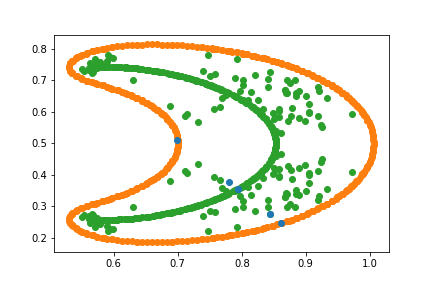
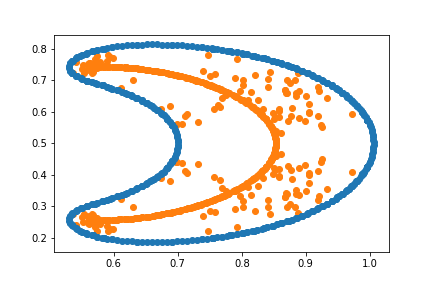
Work on making animated figure

Changed region(s): [[0.1505, 0.125, 0.8727, 0.875]]

diff --git a/Skeletize.py b/Skeletize.py
@@ -4,13 +4,20 @@ Created on Thu Feb 17 16:22:45 2022
 
 @author: Graham Garcia
 """
-import numpy as np
-from DataStructures import normalize2D, normalize3D, kdTree, getDistance2D, getDistance3D
+
 from random  import randint
+from sys import float_repr_style
 import matplotlib
 import matplotlib.pyplot as plt
+from matplotlib.animation import FuncAnimation
+from mpl_toolkits import mplot3d
+import numpy as np
+import csv
 import scipy
 import pandas as pd
+
+
+from DataStructures import normalize2D, normalize3D, kdTree, getDistance2D, getDistance3D
 
 def checkRepeat(check : list):
     n = 2 #order of repeat
@@ -88,7 +95,7 @@ def thin2D(opts : list, measured : list, finPts : list, finR : list, pointDis):
     return thin1p,thin1r
     
     
-def Skeletize2D(points : list, norms : list):
+def Skeletize2D(points : list, norms : list,start : int, stop : int):
     #skeletize takes in 
     #points, the given plain list of points [x,y] for 2D case
     #norms, a list of not yet normalized normal points [n_x,n_y] here for 2D case
@@ -96,8 +103,7 @@ def Skeletize2D(points : list, norms : list):
     #then returns 2 things
     # finPoints = [[x,y],...] of skeleton points
     # finR = [r1,r2,...] of the radius of each skeleton point
-    
-    level = 96
+
     
     pts = []
     i = 0
@@ -113,10 +119,16 @@ def Skeletize2D(points : list, norms : list):
     threshDistance = getDistance2D(points[0],close)
     
     #TOLLERANCES
-    cweight = 0.5#weight of c value(exponetialy weighted)
-    maxReach = 11 #max ittrations of the reach algorithm
-    pointtol = 0.2 #in %
-    closew = 100 #Another modifier for tollerance on skeleton filter
+    
+    #Stored as lists within lists, each list is a points individual searches
+    acp = []#CenterPoints saved when making an animation
+    atp = []#TreePoints saved when making an animation
+    ar = []#Radius saved when making animation
+   
+    ap = []#MainPoints saved when making animation
+    an = []#Normals saved when making animation
+    
+    
     
     thinPoints = []
     finPoints = []#list of skeletized points
@@ -124,6 +136,15 @@ def Skeletize2D(points : list, norms : list):
     index = 1
     guessr = 0
     for point in points:
+        
+        tacp = []
+        tatp = []
+        tar = []
+        
+        
+        if index - 1 >= start and index - 1 <= stop:
+            ap.append(point)
+            an.append(norms[index-1])
         
         tempr = []
         if index == 1:
@@ -145,57 +166,29 @@ def Skeletize2D(points : list, norms : list):
             tempr.append(np.round(getRadius2D(point, testp, norms[index - 1]),6))
             leng = len(tempr)-1
             
-            if tempr[leng] < 2 * threshDistance:
-                case = True
+            #INFORMATION CAPTURE FOR ANIMATION
+            if index - 1 >= start and index - 1 <= stop:
+                tacp.append(centerp[len(centerp) - 1])
+                tatp.append(testp)
+                tar.append(tempr[len(tempr) - 1])
+            
+            #for if within the threshold distance of the interface(too close to surface to be reasonable)
+            # if tempr[leng] < 2 * threshDistance:
+            #     case = True
             
             #cases for cacthing when stuck  
             if tempr[leng] == tempr[leng - 1] and i > 1:
                 
-                reach = True
-                reachitt = 1
-                while reach:
-                    c = np.power(10, reachitt) * threshDistance * np.power(cweight,reachitt)
-                    if(reachitt > maxReach or c <= 0):
-                        reach = False
-                    cords = [point[0]-norms[index-1][0]*c,point[1]-norms[index-1][1]*c]
-                    checkp = tree.getNearR(cords,[cords[0]*10000,cords[1]*9000])
-                    
-                  
-                    if not(checkp == point):
-                        A = [point[0] - cords[0],point[1] - cords[1]]
-                        B = [point[0] - checkp[0],point[1] - checkp[1]]
-                        theta = np.arccos((A[0] * B[0] + A[1] * B[1]) / (np.sqrt(np.power(np.abs(A[0]),2) + np.power(np.abs(A[1]),2)) * np.sqrt(np.power(np.abs(B[0]),2) + np.power(np.abs(B[1]),2))))
-                        if(theta < 0.2):
-                            
-                            midp = [(point[0] + checkp[0])/2,(point[1] + checkp[1])/2]
-                            if(np.abs(midp[0] - centerp[len(centerp) - 1][0]) < closew * pointtol * threshDistance and np.abs(midp[1] - centerp[len(centerp) - 1][1]) < closew * pointtol * threshDistance):
-                                if(index == level):
-                                    print(centerp)
-                                    print(tempr)
-                                    q = 1
-                                    ptx = []
-                                    pty = []
-                                    while q < len(centerp):
-                                        ptx.append(centerp[q][0])
-                                        pty.append(centerp[q][1])
-                                        q = q + 1
-                                    ptx.append(point[0])
-                                    pty.append(point[1])
-                                    plt.scatter(ptx, pty, zorder = 3)
-                                    print('rip')
-                                centerp.append([float(point[0]-norms[index-1][0]*tempr[len(tempr)-1]),float(point[1]-norms[index-1][1]*tempr[len(tempr)-1])])
-                                finPoints.append(centerp[len(centerp)-1])
-                                finR.append(tempr[leng])
-                                thinPoints.append(point)
-                            reach = False
-                        
-                    reachitt = reachitt + 1
+                centerp.append([float(point[0]-norms[index-1][0]*tempr[len(tempr)-1]),float(point[1]-norms[index-1][1]*tempr[len(tempr)-1])])
+                finPoints.append(centerp[len(centerp)-1])
+                finR.append(tempr[leng])
+                thinPoints.append(point)
                 case = True
             #going back and fourth from two radii    
             if i >= 3:
                 repeat, order = checkRepeat(tempr)
                 if repeat:
-                    print('bruh')
+                    print('Hit a Repeat')
                     n = 0
                     p = 0
                     sml = 0.0
@@ -209,46 +202,16 @@ def Skeletize2D(points : list, norms : list):
                                 n = len(tempr) - (order - p)
                         p = p + 1
                         
-                        
-                   
-                    
-                    reach = True
-                    reachitt = 1
-                    while reach:
-                        c = np.power(10, reachitt) * threshDistance * np.power(cweight,reachitt)
-                        if(reachitt > maxReach or c <= 0):
-                            reach = False
-                        cords = [point[0]-norms[index-1][0]*c,point[1]-norms[index-1][1]*c]
-                        checkp = tree.getNearR(cords,[cords[0]*10000,cords[1]*9000])
-                        if not(checkp == point):
-                            A = [point[0] - cords[0],point[1] - cords[1]]
-                            B = [point[0] - checkp[0],point[1] - checkp[1]]
-                            theta = np.arccos((A[0] * B[0] + A[1] * B[1]) / (np.sqrt(np.power(np.abs(A[0]),2) + np.power(np.abs(A[1]),2)) * np.sqrt(np.power(np.abs(B[0]),2) + np.power(np.abs(B[1]),2))))
-                            if(theta < 0.2):
-                                midp = [(point[0] + checkp[0])/2,(point[1] + checkp[1])/2]
-                                if(np.abs(midp[0] - centerp[len(centerp) - 1][0]) < closew * pointtol * threshDistance and np.abs(midp[1] - centerp[len(centerp) - 1][1]) < closew * pointtol * threshDistance):
-                                   if(index == level):
-                                       print(centerp)
-                                       q = 1
-                                       ptx = []
-                                       pty = []
-                                       while q < len(centerp):
-                                           ptx.append(centerp[q][0])
-                                           pty.append(centerp[q][1])
-                                           q = q + 1
-                                       plt.scatter(ptx, pty, zorder = 3)
-                                   finR.append(sml)
-                                   finPoints.append(centerp[n])
-                                   thinPoints.append(point)
-                                reach = False
-                            
-                        reachitt = reachitt + 1
+                    finR.append(sml)
+                    finPoints.append(centerp[n])
+                    thinPoints.append(point)
                     case = True
                     
                 
             i = i + 1
-        
-            
+        acp.append(tacp)
+        atp.append(tatp)
+        ar.append(tar)
         
         
         #guess values
@@ -262,9 +225,14 @@ def Skeletize2D(points : list, norms : list):
     
         
     #Thins out data and returns correct points. 
-        
-    fin2Points , fin2R = thin2D(points,thinPoints, finPoints, finR, threshDistance)    
-    return fin2Points,fin2R
+    # fin2Points , fin2R = thin2D(points,thinPoints, finPoints, finR, threshDistance)    
+    anim = []#return for animation info
+    anim.append(acp)
+    anim.append(atp)
+    anim.append(ar)
+    anim.append(ap)
+    anim.append(an)
+    return finPoints,finR, anim
 
 def Skeletize3D(points : list, norms : list):
     #skeletize takes in 

diff --git a/Main.py b/Main.py
@@ -3,15 +3,27 @@ from random  import randint
 from sys import float_repr_style
 import matplotlib
 import matplotlib.pyplot as plt
+import matplotlib.animation as animation
+from matplotlib.animation import FuncAnimation
 from mpl_toolkits import mplot3d
 import numpy as np
 import csv
+import scipy
+import pandas as pd
+import os
+
 import Skeletize
 from DataStructures import kdTree
-import pandas as pd
+
+
 
 TestPoints = []
 NormPoints = []
+
+plt.xlim(0.55,1.05)
+plt.ylim(0.15,0.85)
+fig, ax = plt.subplots()
+line, = ax.plot([], [], lw=2)
 
 ###TEST CASES ONLY ONE SHOULD BE ACTIVE AT A TIME:
 
@@ -120,17 +132,17 @@ with open('interface_points_070000.dat','r') as csvfile:
 ###SOLVING THE POINTS
 
 
-finPoints,finR = Skeletize.Skeletize2D(TestPoints, NormPoints)
+finPoints,finR,animfile = Skeletize.Skeletize2D(TestPoints, NormPoints, 0, len(TestPoints))
 # finPoints,finR = Skeletize.Skeletize3D(TestPoints, NormPoints) 
 
 
 ###PROCESSING DATA INTO FIGURES
 testX = []
 testY = []
-testz = []
+# testz = []
 finX = []
 finY = []
-finz = []
+# finz = []
 i = 0
 while i < len(TestPoints):
     testX.append(TestPoints[i][0])
@@ -164,12 +176,38 @@ while i < len(finPoints):
     #     plt.plot(tx,ty)
     i = i + 1
 
-plt.scatter(testX, testY, zorder = 2)
-plt.scatter(finX, finY, zorder = 1)
-plt.savefig("Output.png")
+# plt.scatter(testX, testY, zorder = 2)
+# plt.scatter(finX, finY, zorder = 1)
+# plt.savefig("Output.png")
 # ax = plt.axes(projection='3d')
 
 
+###ANIMATED FIGURE(ANIMFILE holds all information needed for building the animated figures)
 
-# plt.xlim(-0.1,1.1)
-# plt.ylim(-0.1,1.1)
+calc = 0
+temp = []
+i = 0   
+while i < len(animfile[0]):
+    calc = calc + len(animfile[0][i])
+    temp.append([len(animfile[0][i])])
+    i = i + 1
+
+def init():
+    line, = ax.plot(testX,testY)
+    return line,
+
+def animate(i):
+    ax.clear()
+    x = []
+    y = []
+    
+    ax.plot(x,y)
+    
+anima = FuncAnimation(fig, animate, init_func=init,frames=60, interval=calc, blit=True)
+
+
+Writer = animation.FFMpegWriter(fps=60)
+anima.save('animatedFig.mp4',writer = Writer)
+
+    
+

diff --git a/DataStructures.py b/DataStructures.py
@@ -4,7 +4,16 @@ Created on Thu Feb 17 16:46:08 2022
 
 @author: graha
 """
-
+from random  import randint
+from sys import float_repr_style
+import matplotlib
+import matplotlib.pyplot as plt
+from matplotlib.animation import FuncAnimation
+from mpl_toolkits import mplot3d
+import numpy as np
+import csv
+import scipy
+import pandas as pd
 
 import numpy as np
 
